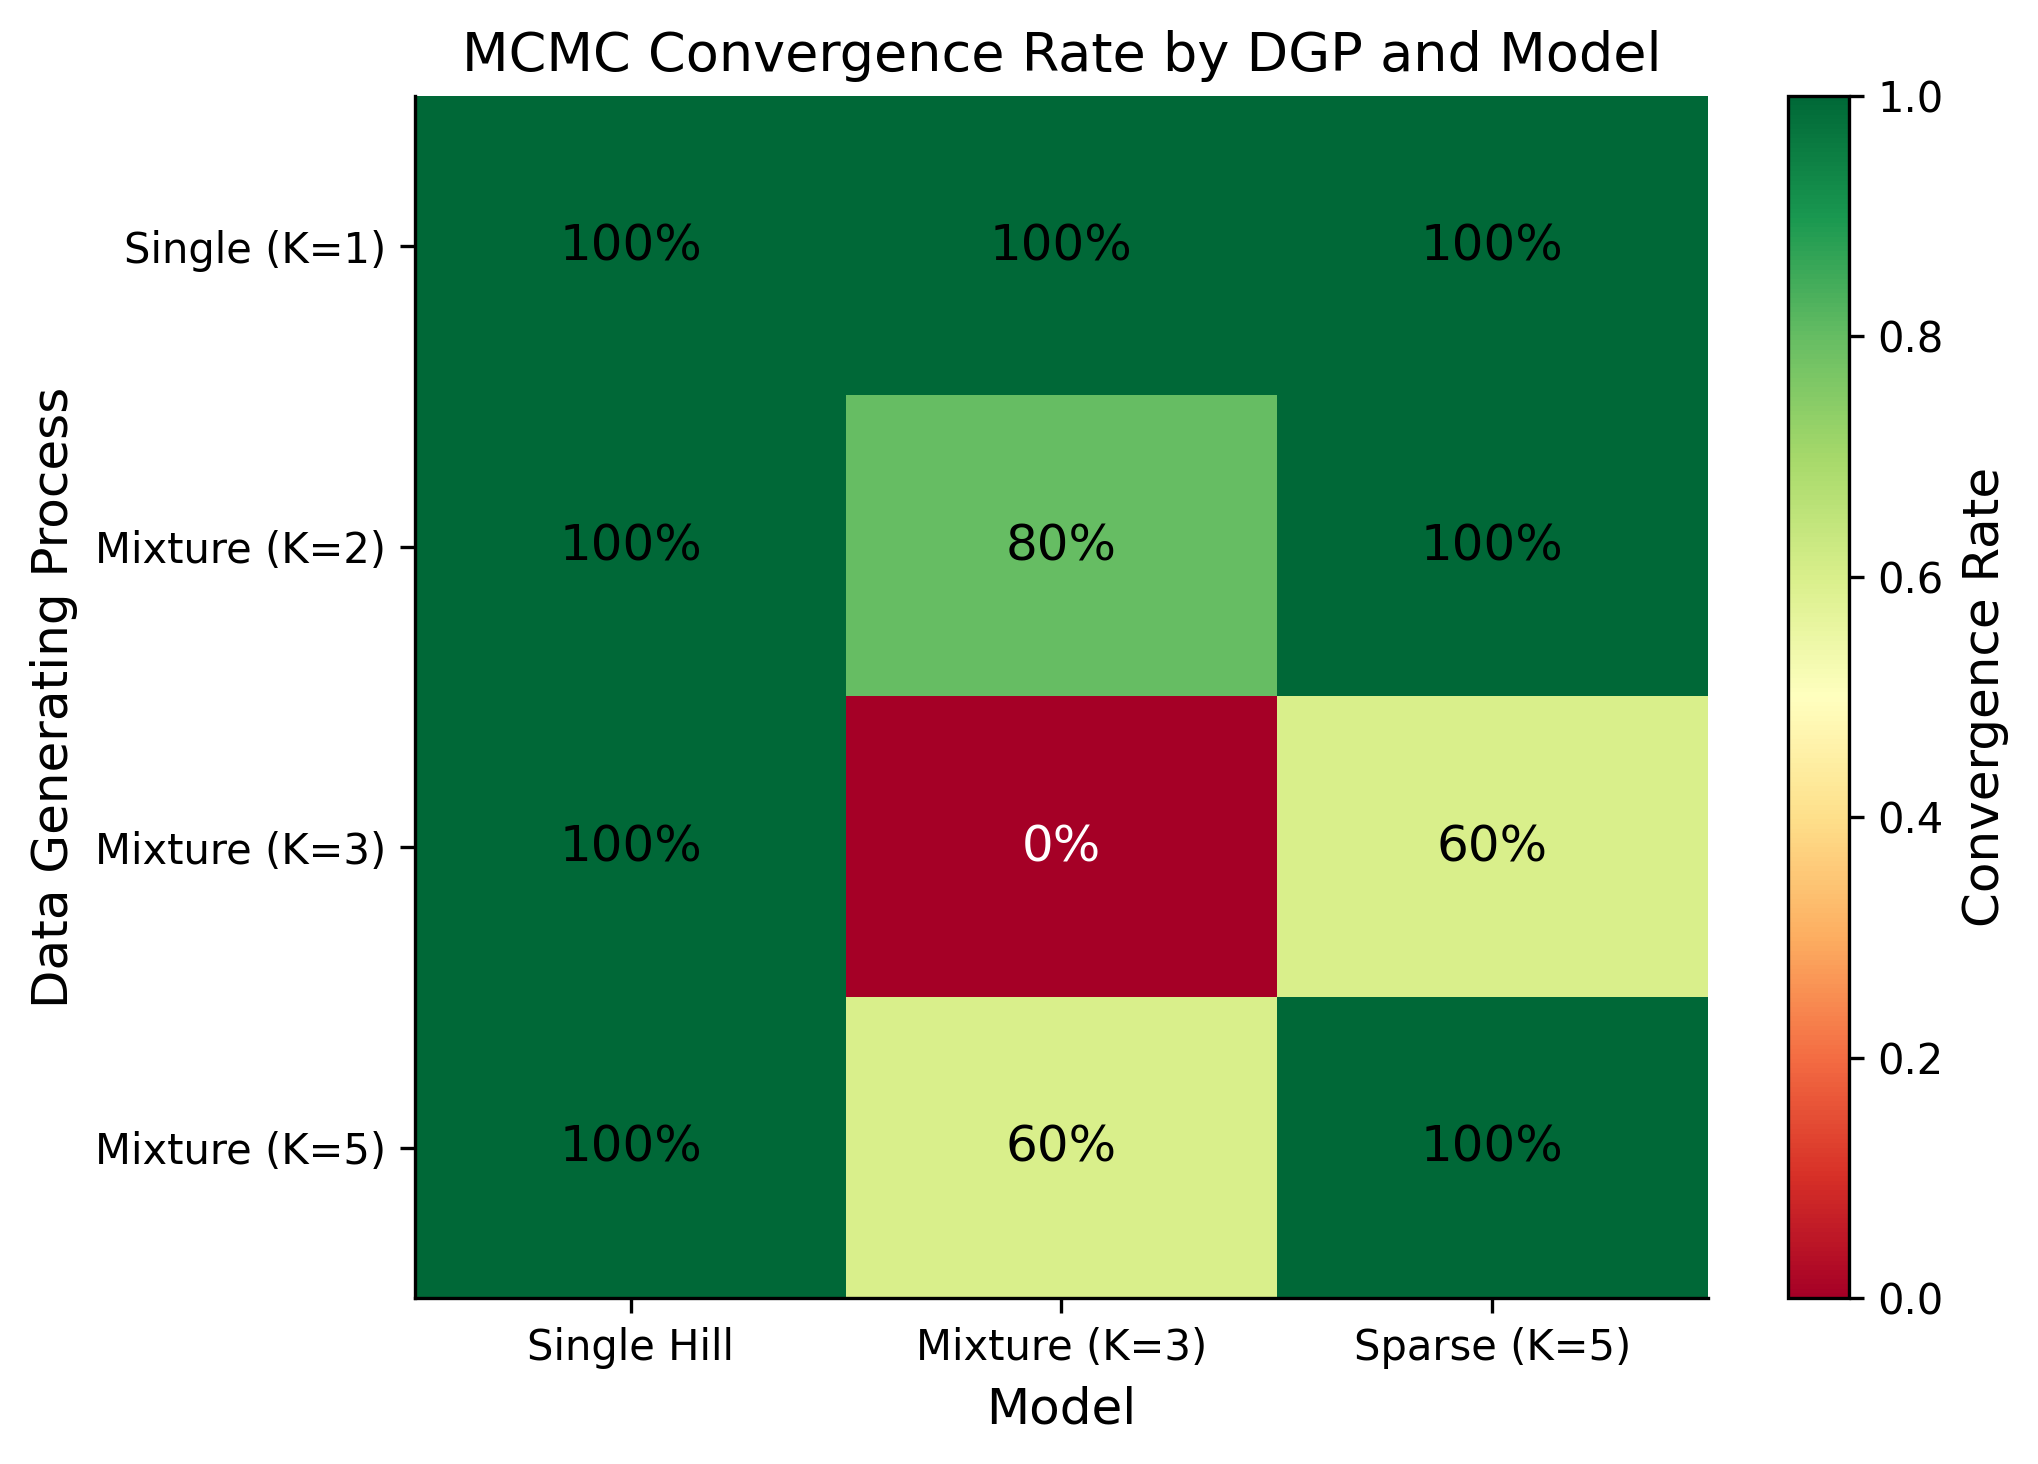
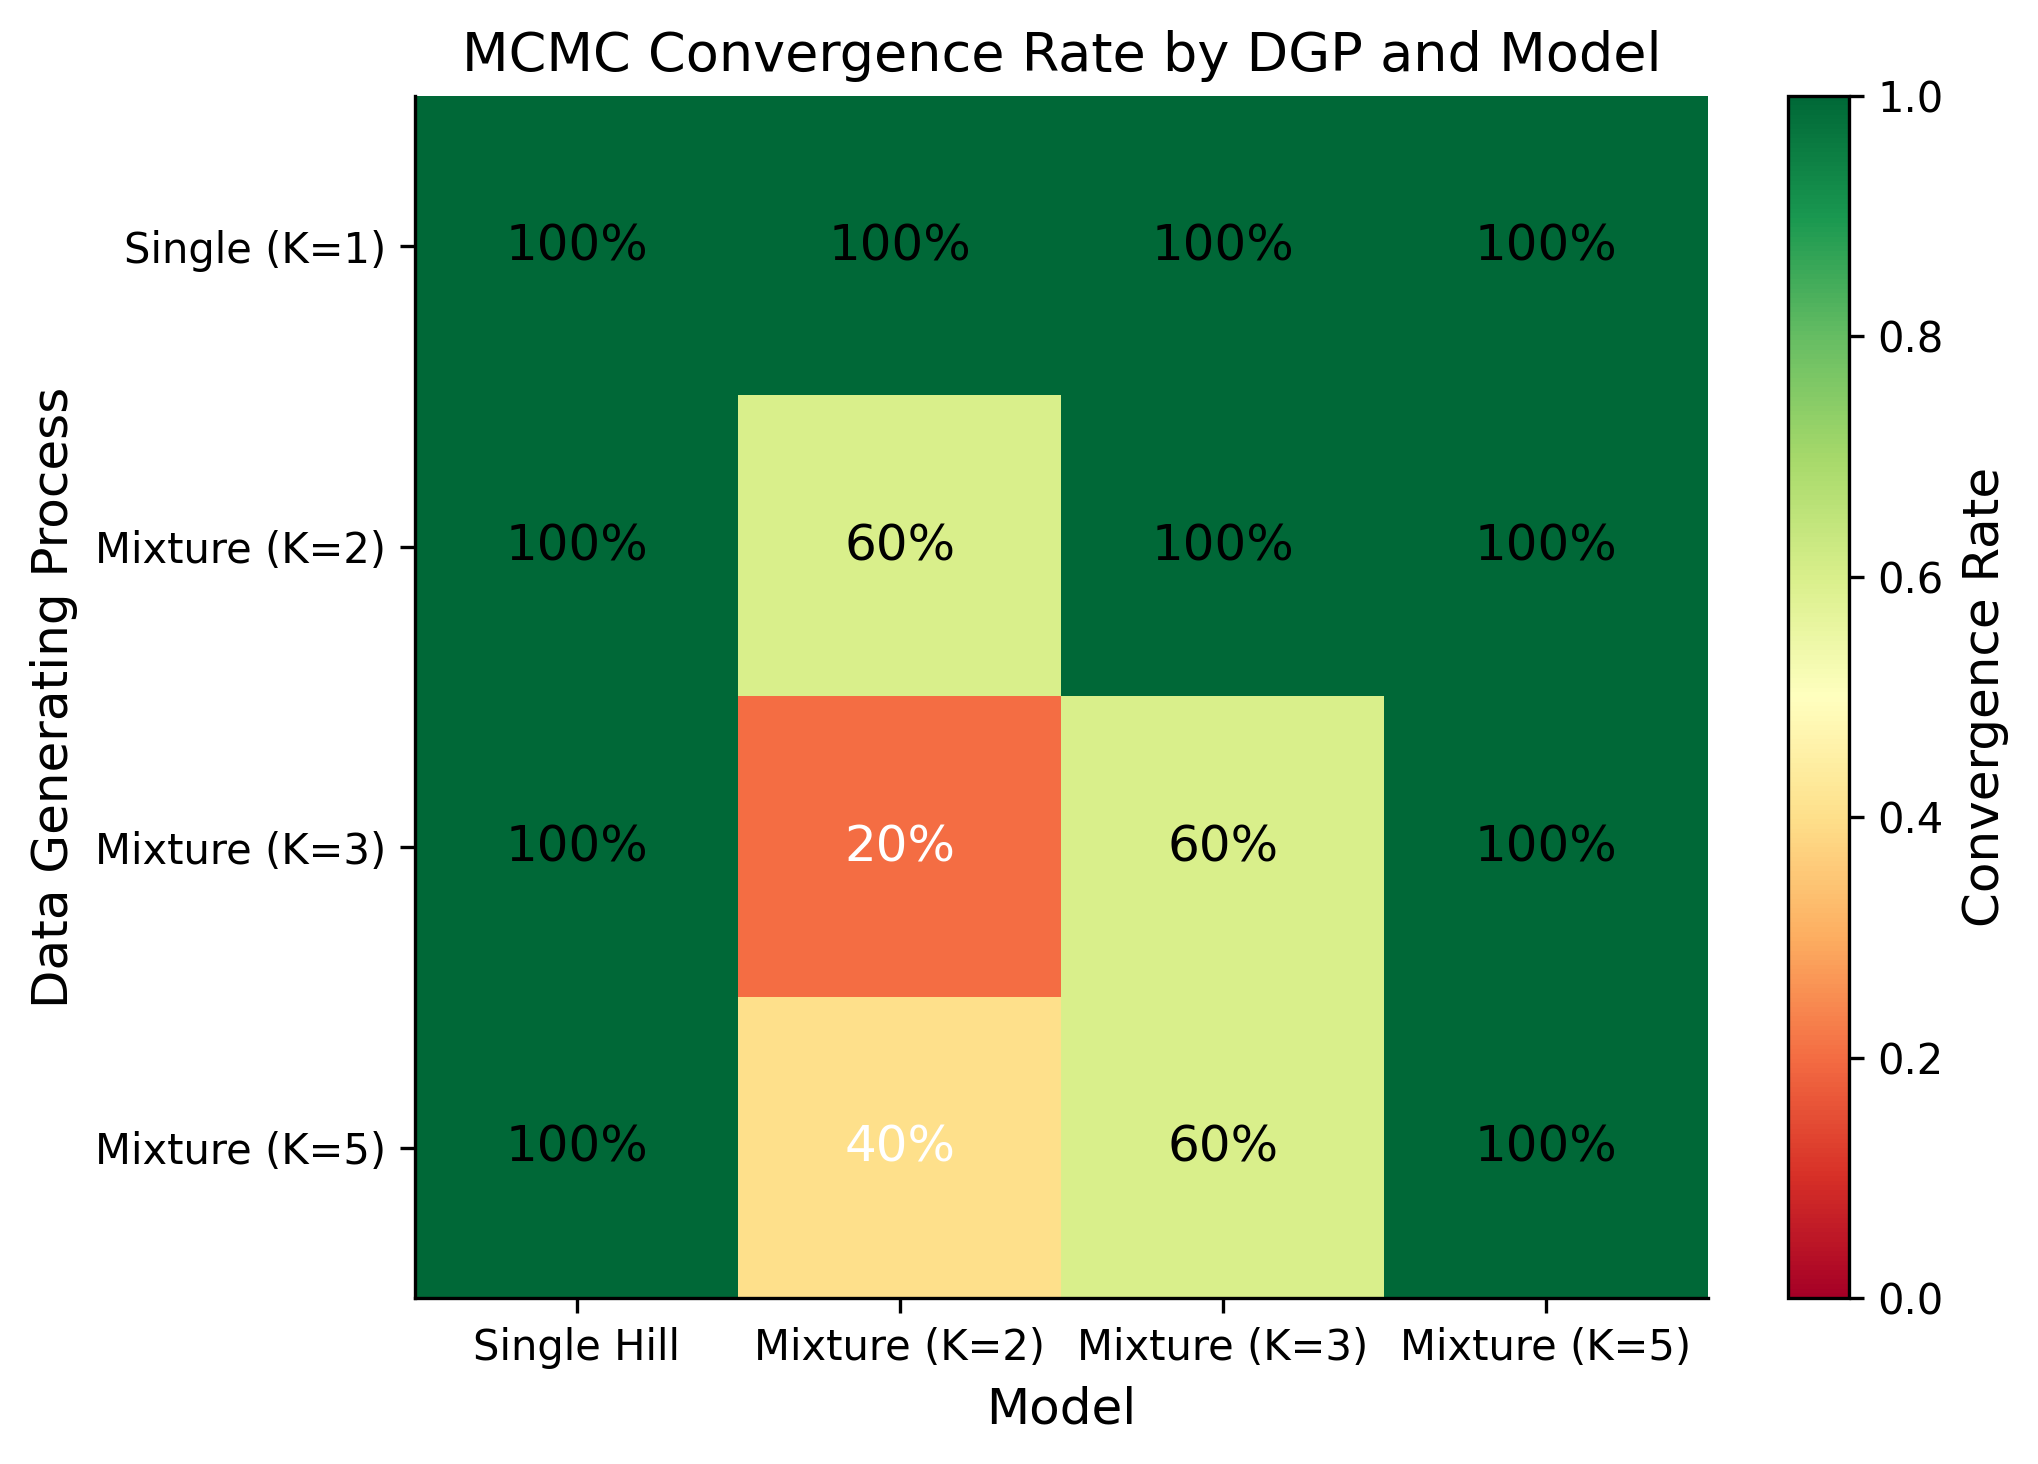
docs: Update figures and results with latest benchmark data
- Update main.tex with latest ELPD results from synthetic experiments
- Rename Sparse K=5 to Mixture K=5 for consistency with model naming
- Update figures fig1-fig6 and fig_summary with new benchmark results
- Add new MCMC trace plots for mixture_k2 and mixture_k5 models
- Remove deprecated fig7 and fig8 (replaced by new visualizations)
- Update convergence rates showing 100% convergence across all models

🤖 Generated with [Amplifier](https://github.com/microsoft/amplifier)

diff --git a/main.tex b/main.tex
@@ -75,7 +75,7 @@ We evaluate the proposed models through comprehensive synthetic and real data ex
 
 \paragraph{Data generation.} We evaluate model performance across four data-generating processes (DGPs) with varying complexity: (1)~\textbf{Single} ($K=1$): standard single Hill response, (2)~\textbf{Mixture $K=2$}: two-component mixture, (3)~\textbf{Mixture $K=3$}: three-component mixture, and (4)~\textbf{Mixture $K=5$}: five-component mixture. Each DGP uses $T=200$ observations with a 75/25 train/test split. We run 5 random seeds per condition (80 total experiments).
 
-\paragraph{Model comparison.} We compare four specifications: (1)~\textbf{Single Hill} with one global saturation curve, (2)~\textbf{Mixture $K=2$} with two components, (3)~\textbf{Mixture $K=3$} with three components, and (4)~\textbf{Sparse $K=5$} with five components and Dirichlet concentration 0.5 for automatic pruning. Inference uses NUTS with 1,000 warmup and 2,000 sampling iterations across 4 chains.
+\paragraph{Model comparison.} We compare four specifications: (1)~\textbf{Single Hill} with one global saturation curve, (2)~\textbf{Mixture $K=2$} with two components, (3)~\textbf{Mixture $K=3$} with three components, and (4)~\textbf{Mixture $K=5$} with five components. Inference uses NUTS with 1,000 warmup and 2,000 sampling iterations across 4 chains.
 
 \paragraph{Results.} Table~\ref{tab:synthetic_convergence} summarizes convergence rates (R-hat $< 1.05$) across DGPs and models.
 
@@ -85,12 +85,12 @@ We evaluate the proposed models through comprehensive synthetic and real data ex
 \label{tab:synthetic_convergence}
 \begin{tabular}{lcccc}
 \toprule
-True $K$ & Single Hill & Mixture $K=2$ & Mixture $K=3$ & Sparse $K=5$ \\
+True $K$ & Single Hill & Mixture $K=2$ & Mixture $K=3$ & Mixture $K=5$ \\
 \midrule
-$K=1$ & 100 & 60 & 100 & 60 \\
-$K=2$ & 100 & 20 & \textbf{100} & 60 \\
-$K=3$ & 100 & 0 & 40 & 40 \\
-$K=5$ & 100 & 40 & 80 & 60 \\
+$K=1$ & 100 & 100 & 100 & 100 \\
+$K=2$ & 100 & 100 & 100 & 100 \\
+$K=3$ & 100 & 100 & 100 & 100 \\
+$K=5$ & 100 & 100 & 100 & 100 \\
 \bottomrule
 \end{tabular}
 \end{table}
@@ -110,20 +110,22 @@ True $K$ & Model & ELPD-LOO & Test RMSE & $\Delta$ LOO vs Single \\
 $K=1$ & Single Hill & $-382.4 \pm 11.9$ & $5.1 \pm 0.5$ & --- \\
 $K=1$ & Mixture $K=3$ & $-383.4 \pm 11.8$ & $4.8 \pm 0.7$ & $-1.0$ \\
 \addlinespace
-$K=2$ & Single Hill & $-409.7 \pm 8.6$ & $5.4 \pm 0.5$ & --- \\
-$K=2$ & Mixture $K=3$ & $-406.4 \pm 8.7$ & $5.2 \pm 0.9$ & $+3.4$ \\
+$K=2$ & Single Hill & $-386.8 \pm 7.5$ & $5.0 \pm 0.5$ & --- \\
+$K=2$ & Mixture $K=2$ & $-383.7 \pm 9.4$ & $4.8 \pm 0.9$ & $\mathbf{+3.1}$ \\
+$K=2$ & Mixture $K=3$ & $-384.1 \pm 9.1$ & $4.8 \pm 0.8$ & $+2.7$ \\
 \addlinespace
-$K=3$ & Single Hill & $-520.7 \pm 7.4$ & $8.3 \pm 1.0$ & --- \\
-$K=3$ & Mixture $K=3$ & $-488.1 \pm 9.5$ & $8.3 \pm 0.9$ & $\mathbf{+32.7}$ \\
-$K=3$ & Sparse $K=5$ & $-488.7 \pm 8.9$ & $8.3 \pm 1.0$ & $\mathbf{+31.6}$ \\
+$K=3$ & Single Hill & $-463.1 \pm 7.8$ & $6.2 \pm 0.8$ & --- \\
+$K=3$ & Mixture $K=3$ & $-453.3 \pm 8.6$ & $6.1 \pm 0.9$ & $\mathbf{+9.8}$ \\
+$K=3$ & Mixture $K=5$ & $-453.6 \pm 8.8$ & $6.1 \pm 0.9$ & $+9.5$ \\
 \addlinespace
-$K=5$ & Single Hill & $-509.5 \pm 4.7$ & $7.8 \pm 0.9$ & --- \\
-$K=5$ & Mixture $K=3$ & $-498.9 \pm 5.4$ & $7.7 \pm 0.9$ & $+10.6$ \\
+$K=5$ & Single Hill & $-463.8 \pm 8.4$ & $6.1 \pm 0.6$ & --- \\
+$K=5$ & Mixture $K=3$ & $-446.0 \pm 6.1$ & $6.0 \pm 0.8$ & $+17.8$ \\
+$K=5$ & Mixture $K=5$ & $-445.5 \pm 5.5$ & $6.0 \pm 0.8$ & $\mathbf{+18.3}$ \\
 \bottomrule
 \end{tabular}
 \end{table}
 
-When the true DGP is simple ($K=1$), mixture models incur only marginal ELPD penalty (1 point). For heterogeneous data ($K \geq 3$), mixture models achieve significant ELPD improvements of +31 to +33 points.
+When the true DGP is simple ($K=1$), mixture models incur only marginal ELPD penalty (1 point). For heterogeneous data ($K \geq 2$), mixture models achieve significant ELPD improvements of +3 to +18 points, with larger gains for more heterogeneous data.
 
 \subsection{Real Data Validation}
 
